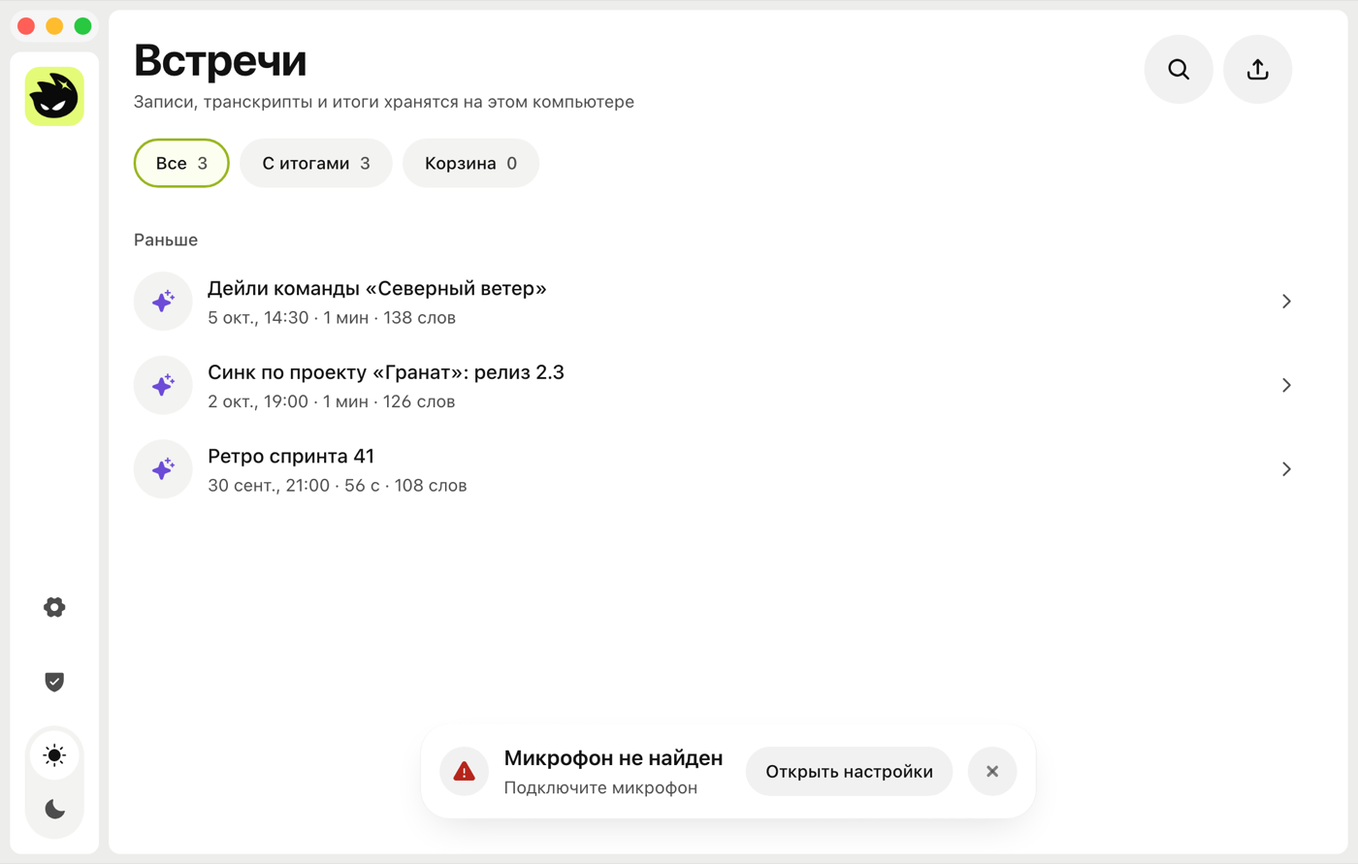
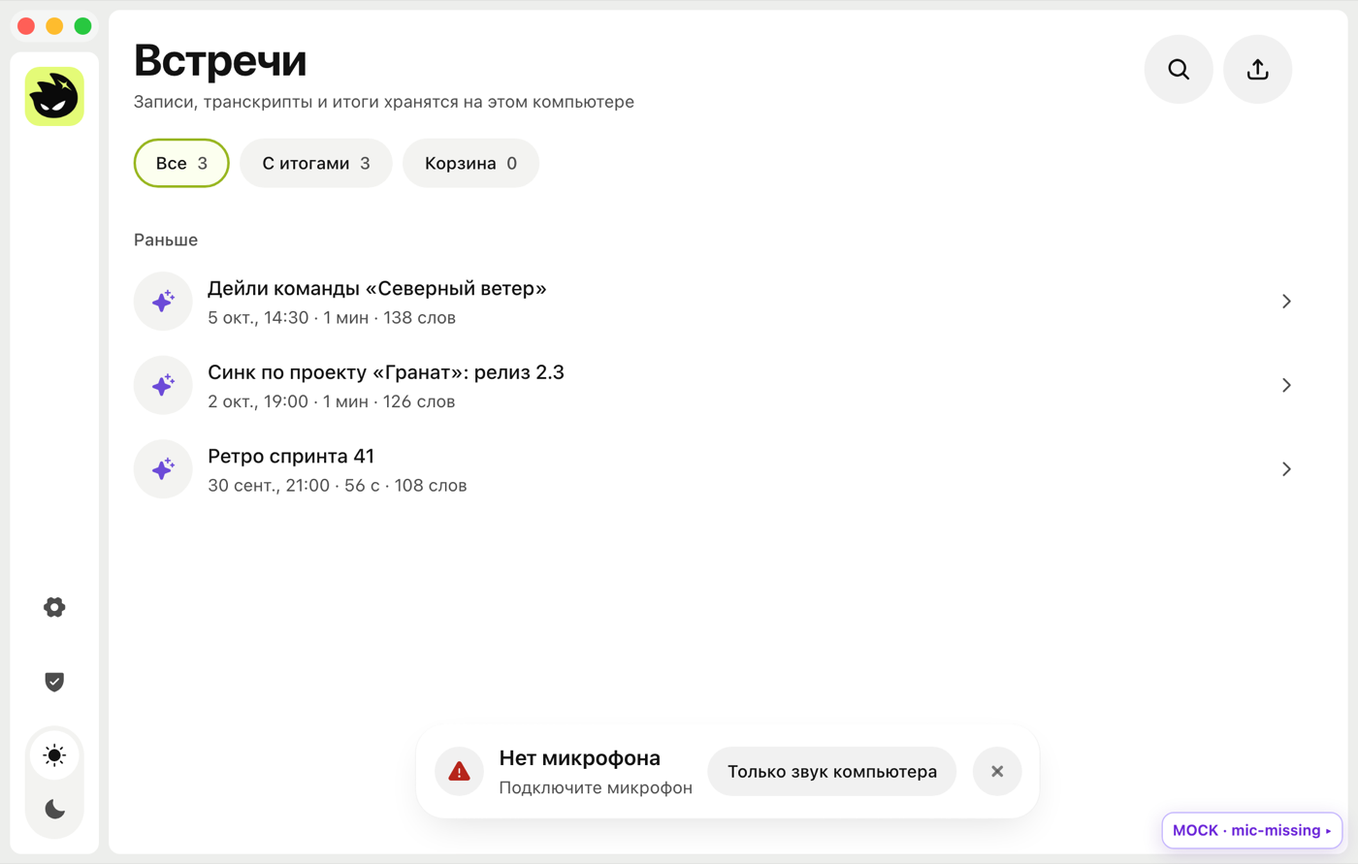
«Нет микрофона»: вернул «Только звук компьютера»
Без микрофона ядро само пишет звук компьютера, и для Mac без микрофона это
единственный способ записать; в PR кнопка пропала вместе с картинкой настроек.
Одно действие, как у всех карточек: настройки без микрофона ничего не дают.
При микрофоне без доступа кнопки нет: ядро не стартует (verify_microphone_access).
Заголовок короче («Нет микрофона»), чтобы помещался в окне 640 px.

Changed region(s): [[0.3379, 0.8485, 0.7371, 0.9394], [0.86, 0.9394, 0.9829, 1.0]]

diff --git a/frontend/src/shade/components/MicNotices.tsx b/frontend/src/shade/components/MicNotices.tsx
@@ -1,9 +1,11 @@
 // Карточки про микрофон в доке записи (docs/ui/notifications.md, «Док»), одним устройством
 // сообщения (ui/notice.tsx):
 // - MicAccessCard: на месте кнопки записи, пока проблема есть: «Нет доступа к микрофону»
-//   (Системные настройки, при возврате в окно доступ перепроверяется сам) и «Микрофон не
-//   найден» (настройки Shade, вкладка «Запись»). Видна сразу, как только проблема известна,
-//   без нажатия «Записать» (recording.ts, passiveMicProblem). Фокус не забирает.
+//   (Системные настройки, при возврате в окно доступ перепроверяется сам) и «Нет
+//   микрофона» с «Только звук компьютера»: без микрофона ядро пишет звук компьютера, для Mac без
+//   микрофона это единственный способ записать (offersSystemOnly); звук компьютера недоступен -
+//   «Открыть настройки» (настройки Shade, вкладка «Запись»). Видна сразу, как только проблема известна, без нажатия «Записать»
+//   (recording.ts, passiveMicProblem). Фокус не забирает.
 // - MicHint: над капсулой во время записи «Не слышу микрофон», «Микрофон отключился» и
 //   напоминание «Пишу только звук компьютера». Запись не обрывается.
 'use client';
@@ -13,6 +15,7 @@ import { Notice, NoticeButton } from '@/shade/components/ui/notice';
 import { DOCK_CARD } from '@/shade/components/FinishCard';
 import { SoundCheckDialog } from '@/shade/components/SoundCheck';
 import { openPrivacySettings } from '@/shade/lib/onboarding';
+import { offersSystemOnly } from '@/shade/lib/mic-access';
 import type { StartBlocker } from '@/shade/lib/recording';
 import type { MicWatchState } from '@/shade/lib/mic-watch';
 import { t } from '@/shade/strings';
@@ -69,10 +72,13 @@ export type MicResolved = 'granted' | 'unknown';
 export function MicAccessCard({
   blocker,
   onRecheck,
+  onSystemOnly,
   onClose,
   onResolved,
 }: {
   blocker: MicBlocker;
+  /** «Только звук компьютера»: запись без микрофона (только при «Нет микрофона»). */
+  onSystemOnly?: () => void;
   /** Перепроверить доступ: есть, нет или проверить не удалось. */
   onRecheck: () => Promise<'granted' | 'denied' | 'unknown'>;
   onClose: () => void;
@@ -122,7 +128,15 @@ export function MicAccessCard({
       icon="problem"
       title={denied ? t('micDeniedTitle') : t('micMissingTitle')}
       hint={hint}
-      actions={<NoticeButton action={{ label: t('micOpenSettings'), onClick: open }} disabled={checking} busy={checking} />}
+      actions={
+        // Одно действие, как у всех карточек: без микрофона настройки ничего не дадут (выбирать
+        // нечего, подключённый микрофон карточка заметит сама), а звук компьютера записать можно
+        onSystemOnly && offersSystemOnly(blocker) ? (
+          <NoticeButton action={{ label: t('systemOnlyShort'), onClick: onSystemOnly }} />
+        ) : (
+          <NoticeButton action={{ label: t('micOpenSettings'), onClick: open }} disabled={checking} busy={checking} />
+        )
+      }
       onClose={onClose}
       closeLabel={t('close')}
     />

diff --git a/frontend/src/shade/lib/mic-access.test.ts b/frontend/src/shade/lib/mic-access.test.ts
@@ -1,10 +1,10 @@
 // Микрофон недоступен: карточка в доке сразу, без нажатия на запись (docs/ui/notifications.md).
 // passiveMicProblem решает по тому, что известно без вопроса macOS: входы ядра и запомненный отказ.
 import { describe, expect, test } from 'bun:test';
-import { passiveMicProblem } from './mic-access';
+import { offersSystemOnly, passiveMicProblem } from './mic-access';
 
 describe('passiveMicProblem', () => {
-  test('входов нет: «Микрофон не найден», даже если доступ разрешён', () => {
+  test('входов нет: «Нет микрофона», даже если доступ разрешён', () => {
     expect(passiveMicProblem('granted', 0)).toBe('no-microphone');
     expect(passiveMicProblem(null, 0)).toBe('no-microphone');
     expect(passiveMicProblem('denied', 0)).toBe('no-microphone');
@@ -19,5 +19,19 @@ describe('passiveMicProblem', () => {
   test('доступ не известен или разрешён, входы есть: карточки нет (о статусе macOS без вопроса не узнать)', () => {
     expect(passiveMicProblem(null, 1)).toBeNull();
     expect(passiveMicProblem('granted', 1)).toBeNull();
+  });
+});
+
+describe('offersSystemOnly', () => {
+  test('микрофона нет: «Только звук компьютера» (ядро без микрофона пишет звук компьютера)', () => {
+    expect(offersSystemOnly({ kind: 'no-microphone', passive: true } as { kind: string })).toBe(true);
+    expect(offersSystemOnly({ kind: 'no-microphone', systemAudio: true })).toBe(true);
+  });
+  test('микрофона нет и звук компьютера недоступен: кнопки нет, остаётся «Открыть настройки»', () => {
+    expect(offersSystemOnly({ kind: 'no-microphone', systemAudio: false })).toBe(false);
+  });
+  test('микрофон есть, доступа нет: кнопки нет даже при звуке компьютера (ядро не стартует)', () => {
+    expect(offersSystemOnly({ kind: 'mic-denied', systemAudio: true })).toBe(false);
+    expect(offersSystemOnly({ kind: 'mic-denied', systemAudio: false })).toBe(false);
   });
 });

diff --git a/frontend/src/shade/components/RecordDock.tsx b/frontend/src/shade/components/RecordDock.tsx
@@ -7,7 +7,7 @@
 // - после «Остановить»: кнопка превращается в карточку (FinishCard), та меняет состояние на месте:
 //   «Дописываю реплики» → «Сохраняю» → итог («Встреча сохранена» и «Открыть», пустая запись, «Речи
 //   не было» и «Проверить звук», «Речь не распознана», «Мало содержания» и «Вернуть») → снова кнопка;
-// - проблема, мешающая записи («Нет доступа к микрофону», «Микрофон не найден»): карточка на месте
+// - проблема, мешающая записи («Нет доступа к микрофону», «Нет микрофона»): карточка на месте
 //   кнопки сразу, как только проблема известна, и держится, пока она есть (MicNotices.tsx).
 // Всё, что не про текущую запись («Доступна версия», «Как вам Shade?», корзина, восстановление),
 // живёт в правом нижнем углу (CornerStack, lib/corner.ts): док ставит туда отзыв и обновление.
@@ -450,6 +450,7 @@ export function RecordDock() {
           <MicAccessCard
             blocker={micBlocker}
             onRecheck={c.recheckMicrophone}
+            onSystemOnly={() => void c.startAnywhere({ systemOnly: true })}
             onClose={c.dismissBlocker}
             onResolved={(answer) => {
               c.dismissBlocker();

diff --git a/frontend/src/shade/lib/mic-access.ts b/frontend/src/shade/lib/mic-access.ts
@@ -224,6 +224,17 @@ export function isMicRefusal(error: unknown): boolean {
 }
 
 /**
+ * «Только звук компьютера» в карточке микрофона (docs/ui/notifications.md, «Док»). Только когда
+ * микрофона нет совсем: тогда ядро пропускает проверку микрофона и пишет звук компьютера.
+ * Микрофон есть, а доступа нет: ядро не стартует (verify_microphone_access), кнопку не даём.
+ * Звук компьютера недоступен (systemAudio: false): тоже не даём; не проверяли (undefined): даём,
+ * отказ macOS тогда придёт ошибкой старта.
+ */
+export function offersSystemOnly(blocker: { kind: string; systemAudio?: boolean }): boolean {
+  return blocker.kind === 'no-microphone' && blocker.systemAudio !== false;
+}
+
+/**
  * Проблема с микрофоном, известная без вопроса macOS и без открытия микрофона: входов в списке
  * ядра нет или отказ уже известен (первый запуск, прошлая запись, проверка). Статус разрешения
  * macOS сам по себе без вопроса не узнать (команды ядра нет), поэтому «не знаю» - не проблема.

diff --git a/frontend/src/shade/strings.ts b/frontend/src/shade/strings.ts
@@ -143,7 +143,7 @@ export const ru = {
   micRestartNote: 'Уже включили? Перезапустите Shade',
   micDemoPane: 'Микрофон',
   micSwitchHint: 'Включите Shade в\u00A0Системных настройках, раздел «Микрофон», и\u00A0вернитесь',
-  micMissingTitle: 'Микрофон не найден',
+  micMissingTitle: 'Нет микрофона',
   micMissingHint: 'Подключите микрофон',
   micOpenSettings: 'Открыть настройки',
   recordSystemOnly: 'Записать только звук компьютера',
@@ -623,7 +623,7 @@ export const en: Mirror<RuDict> = {
   micRestartNote: 'Already turned it on? Restart Shade',
   micDemoPane: 'Microphone',
   micSwitchHint: 'Turn on Shade in System Settings, under “Microphone”, and come back',
-  micMissingTitle: 'Microphone not found',
+  micMissingTitle: 'No microphone',
   micMissingHint: 'Connect a microphone',
   micOpenSettings: 'Open settings',
   recordSystemOnly: 'Record computer audio only',

diff --git a/frontend/src/dev/mock-tauri/scenarios.ts b/frontend/src/dev/mock-tauri/scenarios.ts
@@ -255,7 +255,7 @@ export const SCENARIOS: Record<ScenarioId, Scenario> = {
     micPermission: false, systemAudioPermission: true, micLive: 'silent', macMic: 'denied', micKnown: 'denied',
   },
   'mic-missing': {
-    id: 'mic-missing', label: 'mic-missing', description: 'Микрофона нет в списке устройств: в доке сразу «Микрофон не найден» и «Открыть настройки», пока не подключат',
+    id: 'mic-missing', label: 'mic-missing', description: 'Микрофона нет в списке устройств: в доке сразу «Нет микрофона» и «Только звук компьютера» (запись без микрофона), пока не подключат',
     meetings: () => createFullMeetings().slice(0, 3), onboardingCompleted: true, modelsReady: true, recordingOnLoad: false, failing: false,
     micDeviceMissing: true, systemAudioPermission: true,
   },

diff --git a/docs/ui/notifications.md b/docs/ui/notifications.md
@@ -15,7 +15,8 @@
 ### Док
 Цепочка одной карточкой на месте кнопки: запись → «Дописываю реплики» → «Сохраняю» → итог → снова кнопка.
 - Итоги: «Встреча сохранена» и «Открыть»; «Пустая запись»; «Речи не было» и «Проверить звук»; «Речь не распознана»; «Мало содержания» и «Вернуть».
-- «Нет доступа к микрофону» и «Микрофон не найден» с «Открыть настройки» видны сразу, как только это известно, без нажатия «Записать», и держатся, пока проблема есть. Известно без вопроса macOS (`passiveMicProblem` в `lib/mic-access.ts`): входов в списке ядра нет или отказ уже запомнен (`shade.micAccess.v1`). Состояние разрешения macOS без вопроса не узнать (команды ядра нет), поэтому «не знаю» карточкой не считается. Проверка на старте, при возврате в окно, при смене устройств и изменении запомненного доступа (`lib/recording.ts`). Крестик прячет карточку до следующей перемены.
+- «Нет доступа к микрофону» с «Открыть настройки» и «Нет микрофона» с «Только звук компьютера» видны сразу, как только это известно, без нажатия «Записать», и держатся, пока проблема есть. Известно без вопроса macOS (`passiveMicProblem` в `lib/mic-access.ts`): входов в списке ядра нет или отказ уже запомнен (`shade.micAccess.v1`). Состояние разрешения macOS без вопроса не узнать (команды ядра нет), поэтому «не знаю» карточкой не считается. Проверка на старте, при возврате в окно, при смене устройств и изменении запомненного доступа (`lib/recording.ts`). Крестик прячет карточку до следующей перемены.
+- «Только звук компьютера» (`offersSystemOnly`) только в «Нет микрофона»: без микрофона ядро само пишет звук компьютера, и для Mac без микрофона (Mac mini, Studio) это единственный способ записать. Настройки там ничего не дадут: выбрать нечего, подключённый микрофон карточка заметит сама. Звук компьютера недоступен: вместо кнопки «Открыть настройки». В «Нет доступа к микрофону» кнопки нет: ядро без доступа к микрофону не стартует (`verify_microphone_access`).
 
 ### Угол
 - Не больше трёх карточек (`MAX_VISIBLE`), новая снизу, промежуток 8 px (`STACK_GAP`). Четвёртая: старшие сворачиваются в стопку «+N» над верхней; наведение или фокус раскрывают все.
@@ -63,8 +64,8 @@
 | 5 | «Речи не было» / «Запись не сохранена» + «Проверить звук» | док | подпись в две строки | одна строка, 8 с |
 | 6 | «Речь не распознана» / «Звук остался в папке записей» | док | без подписи | 4 с |
 | 7 | «Мало содержания» / «Запись в корзине» + «Вернуть» | док; во время новой записи угол | тост во время записи | 8 с, «Вернуть» серая |
-| 8 | «Нет доступа к микрофону» + «Открыть настройки» | док | только после «Записать», с картинкой и «Записать только звук компьютера» | сразу, пока проблема есть |
-| 9 | «Микрофон не найден» + «Открыть настройки» | док | только после «Записать»; в заглушке не видно | сразу, пока не подключат |
+| 8 | «Нет доступа к микрофону» + «Открыть настройки» | док | только после «Записать», с картинкой и «Записать только звук компьютера» (ядро так не умеет) | сразу, пока проблема есть |
+| 9 | «Нет микрофона» / «Подключите микрофон» + «Только звук компьютера» | док | «Микрофон не найден», только после «Записать»; в заглушке не видно | сразу, пока не подключат; кнопка начинает запись без микрофона |
 | 10 | «Встреча в корзине» + «Вернуть» | угол | тост, каждая встреча отдельно | 8 с; подряд склеиваются в «2 встречи в корзине» |
 | 11 | «Встреча восстановлена» | угол | тост | 4 с; подряд «2 встречи восстановлены» |
 | 12 | «Восстановлена после сбоя» + «Открыть» | угол | тост 20 с; больше двух: сводный без «Открыть» | без таймера; две и больше: «Восстановлено 2 встречи» + «Показать» |
@@ -85,4 +86,4 @@
 
 ## Тесты
 
-`lib/corner.test.ts` (стек, «+N», склейка и «Вернуть» обеих, сроки, пауза), `lib/notice-stack.test.ts` (док и угол не пересекаются при любой ширине), `lib/mic-access.test.ts` (карточка микрофона без нажатия), `lib/toasts.test.ts` (вид тостов оригинала), `lib/crash-recovery.test.ts` (склейка восстановленных), `lib/updates.test.ts` (обновление не во время записи, фоновая ошибка молчит, ручная видна), `components/feedback/feedback-card.test.tsx` (2 звезды открывают форму на месте), `strings.test.ts` (подпись в одну строку).
+`lib/corner.test.ts` (стек, «+N», склейка и «Вернуть» обеих, сроки, пауза), `lib/notice-stack.test.ts` (док и угол не пересекаются при любой ширине), `lib/mic-access.test.ts` (карточка микрофона без нажатия, «Только звук компьютера» только без микрофона), `lib/toasts.test.ts` (вид тостов оригинала), `lib/crash-recovery.test.ts` (склейка восстановленных), `lib/updates.test.ts` (обновление не во время записи, фоновая ошибка молчит, ручная видна), `components/feedback/feedback-card.test.tsx` (2 звезды открывают форму на месте), `strings.test.ts` (подпись в одну строку).

diff --git a/docs/case/mock.md b/docs/case/mock.md
@@ -73,9 +73,9 @@ pnpm dev            # http://localhost:3118
 | `long-empty` | Запись «идёт» уже 5 минут (`startOffsetSec: 300`), VAD молчит: на экране записи «Не слышу речи». В списке есть такая же сохранённая встреча `mock-silent-long` с автоматическим названием |
 | `sparse` | Запись, в которой распознаны только три реплики, и сохранённая встреча `mock-sparse` с двумя репликами |
 | `no-model` | Мастер пройден, но модель распознавания не скачана: «Начать запись» ведёт к загрузке модели. Уведомления как в ядре по умолчанию: согласие есть, показ выключен |
-| `no-permission` | Нет доступа ни к микрофону, ни к звуку компьютера: `trigger_*_permission` возвращают `false`. «Записать» показывает карточку «Нет доступа к микрофону» без «Записать только звук компьютера» |
-| `mic-denied` | Отказ в микрофоне, звук компьютера есть: карточка с «Открыть настройки» и «Записать только звук компьютера». Для перепроверки после настроек: `window.__SHADE_MOCK__.backend.scenario.micPermission = true`, затем вернуть фокус окну |
-| `mic-missing` | Микрофона нет в `get_audio_devices`: карточка «Микрофон не найден» |
+| `no-permission` | Нет доступа ни к микрофону, ни к звуку компьютера: `trigger_*_permission` возвращают `false`. «Записать» показывает карточку «Нет доступа к микрофону» и «Открыть настройки» |
+| `mic-denied` | Отказ в микрофоне: карточка «Нет доступа к микрофону» и «Открыть настройки» сразу после запуска (ядро без доступа к микрофону не стартует, поэтому «Только звук компьютера» здесь нет). Для перепроверки после настроек: `window.__SHADE_MOCK__.backend.scenario.micPermission = true`, затем вернуть фокус окну |
+| `mic-missing` | Микрофона нет в `get_audio_devices`: карточка «Нет микрофона» сразу после запуска, «Только звук компьютера» начинает запись без микрофона |
 | `mic-prompt` | Доступ ещё не спрашивали: `trigger_microphone_permission` отвечает через 2,5 с (как вопрос macOS), потом запись идёт |
 | `mic-core-refuses` | Проверка Shade прошла, но ядро отклоняет старт текстом `Microphone access required` (как `verify_microphone_access`) |
 | `mic-silent` | Идёт запись, уровень микрофона (событие `shade-mock-mic` вместо `getUserMedia`) нулевой: через 15 с «Не слышу микрофон» |

diff --git a/docs/ui/meetings-list.md b/docs/ui/meetings-list.md
@@ -9,7 +9,7 @@
 - Ниже список, строки без вложенных карточек с миниатюрой состояния 48 px (`components/MeetingRow.tsx`). Левый край одной линией: заголовок, подзаголовок, фильтры, заголовки групп и миниатюры строк. У строк внутренний отступ 8 px под подложку наведения, поэтому списки (встречи, корзина, заготовка загрузки) сдвинуты на него влево (`-ml-2` в `pages/Home.tsx`): подложка выступает за линию, значки на ней. От 1100 px ширины списка две колонки (`@container`, `@[1100px]` в `pages/Home.tsx`).
 - Новая встреча после «Остановить» первой строкой в «Сегодня» (`PendingRow`): [recording-outcome.md](recording-outcome.md#после-остановить).
 - Фильтр «Корзина», «Восстановить», «Удалить насовсем»: [recording-outcome.md](recording-outcome.md#3-корзина-libmeeting-trashts-librecording-trashts).
-- Кнопка записи в покое показывается только здесь: [recording.md](recording.md#док-записи-componentsrecorddocktsx). Карточки про микрофон («Нет доступа к микрофону», «Микрофон не найден») встают на её место сразу, без нажатия.
+- Кнопка записи в покое показывается только здесь: [recording.md](recording.md#док-записи-componentsrecorddocktsx). Карточки про микрофон («Нет доступа к микрофону», «Нет микрофона») встают на её место сразу, без нажатия.
 - Сообщения после удаления и возврата из корзины, восстановления после сбоя, обновления: в правом нижнем углу, однотипные склеиваются ([notifications.md](notifications.md)). Ошибка загрузки списка с «Повторить» и подтверждение удаления у значка корзины остаются внутри списка.
 - Длительность в строке: длина файла звука, см. [meeting.md](meeting.md#длительность).
 - Строка: название главная, под ним дата и время перед длительностью и объёмом: «16 нояб., 15:02 · 29 мин · 1 953 слова» (`formatRowDate`, `lib/format.ts`; в группах «Сегодня» и «Вчера» дата в заголовке группы, в строке только время). Мета в одну строку, длинная обрезается многоточием. Заголовки групп («Сегодня», «Вчера») обычным текстом, не капсом. Мета одна и та же у названия-даты и у названия-темы: когда название придумывается в фоне, меняется только его текст, строка не мигает и не сдвигается.

diff --git a/docs/ui/recording.md b/docs/ui/recording.md
@@ -27,7 +27,7 @@
 - Проверка доступа перед записью (`lib/mic-access.ts`) и слежение во время записи (`lib/mic-watch.ts`) открывают микрофон WebView без эхоподавления, шумодава и автоусиления. С ними WebKit включает режим обработки голоса, и macOS приглушает другие приложения (музыка стихала при «Записать»).
 - «Проверить звук» только у «Речи не было» (есть основание подозревать звук).
 - «Пустая запись» / «Запись не сохранена» уходит сама через `EMPTY_NOTICE_MS` (4 с, `lib/recording-outcome.tsx`).
-- «Нет доступа к микрофону» и «Микрофон не найден» с «Открыть настройки» в доке сразу, как только это известно без вопроса macOS, и пока проблема есть (`passiveMicProblem`, [notifications.md](notifications.md#док)). Карточки с картинкой настроек и «Записать только звук компьютера» больше нет.
+- «Нет доступа к микрофону» с «Открыть настройки» и «Нет микрофона» с «Только звук компьютера» в доке сразу, как только это известно без вопроса macOS, и пока проблема есть (`passiveMicProblem`, [notifications.md](notifications.md#док)). Картинки настроек в карточке больше нет. «Только звук компьютера» только когда микрофона нет совсем: тогда ядро пишет звук компьютера; при микрофоне без доступа ядро не стартует (`verify_microphone_access`), и кнопки нет (`offersSystemOnly`).
 
 ## Язык встреч и чистка текста во время записи
 Настройки: [settings.md](settings.md#распознавание-язык-и-слова-speechtab-в-pagessettingstsx). Ядро: `src-tauri/src/audio/transcript_quality.rs`.
